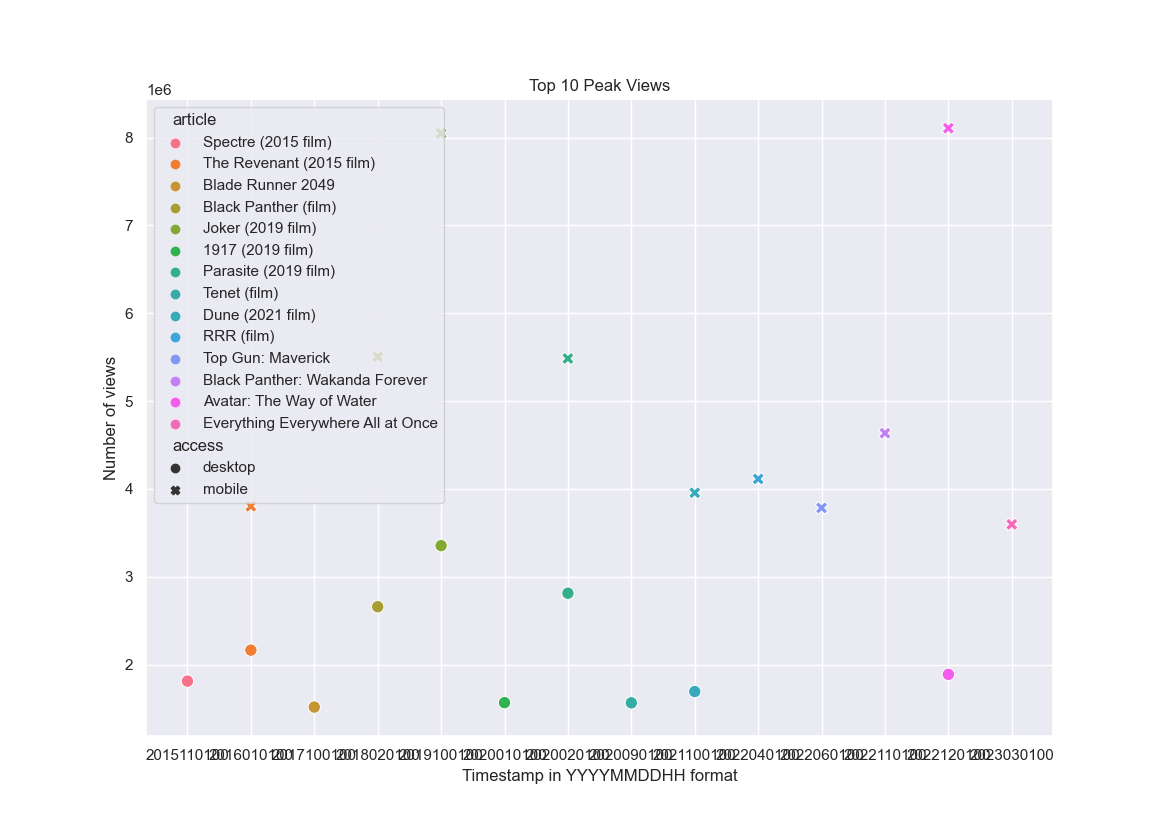
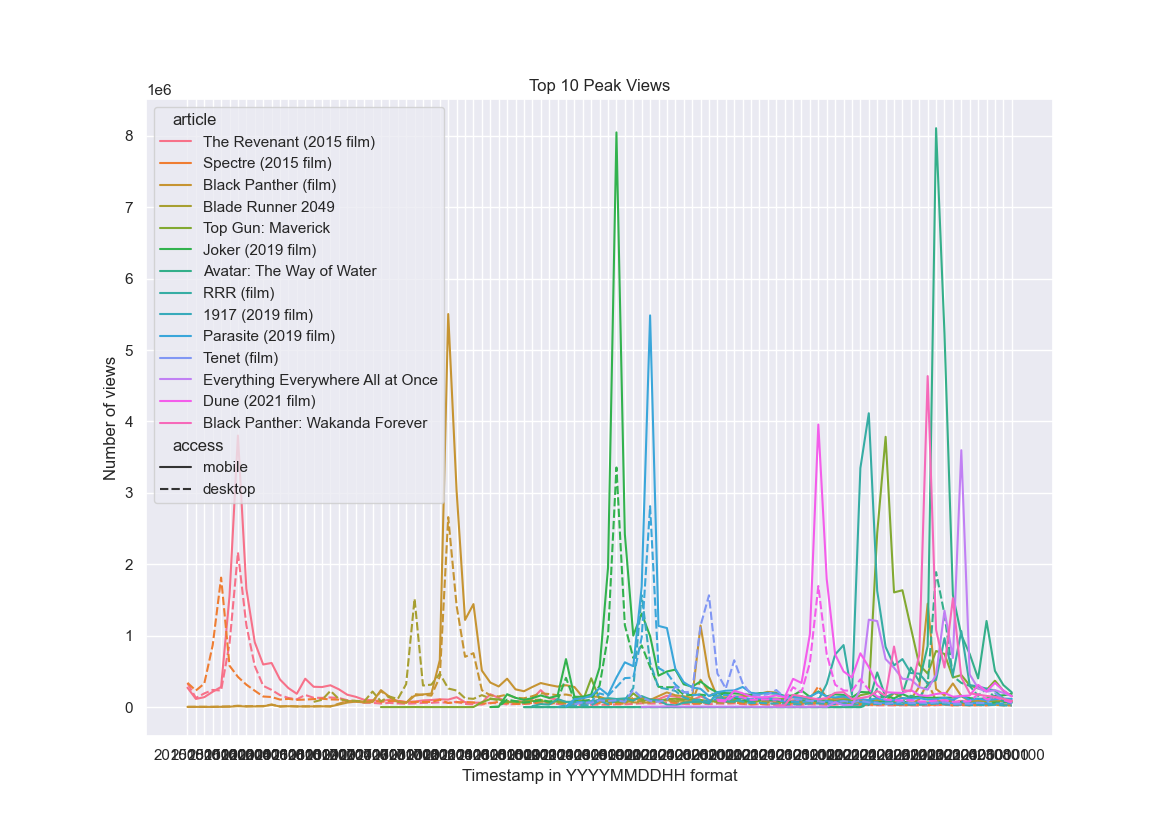
feat(): Changes

Changed region(s): [[0.1231, 0.1511, 0.8615, 0.8767], [0.1231, 0.9069, 0.8923, 0.9371], [0.8, 0.1511, 0.8308, 0.1814]]

diff --git a/README.md b/README.md
@@ -1,1 +1,24 @@
 # DATA512Assignment1
+
+Describe the goal of the project.
+List the license of the source data and a link to the Wikimedia Foundation REST API terms of use: https://www.mediawiki.org/wiki/REST_API#Terms_and_conditions
+Link to all relevant API documentation
+Clearly name any intermediary data files and any final output files that your code creates. And for any files that your code creates you should describe the values of all fields.
+List any known issues or special considerations with the data that would be useful for another researcher to know. 
+
+The aim of this project is to collect and analyze page view data of multiple academy award winning movies on English Wikipedia between the months of July 2015 and October 2023
+
+## Files:
+- Assignment 1.ipynb: Jupyter notebook with code pertaining to acquisition of the data, using the PageViews API to collect data for the movies of interest.
+- Assignment 1 Visualization.ipynb: Jupyter notebook with code pertaining to preprocessing, visualization and analysis of the data collected.
+- Fewest Months of Data.png: Graph visualizing the top 10 movies with fewest months of data.
+- Maximum Average and Minimum Average.png: Graph visualizing the top and bottom 10 movies with minimum and maximum average monthly views.
+- Top 10 Peak Views.png: Graph visualizing the time series data of the top 10 movies with highest page views.
+
+- academy_monthly_cumulative_201507-202310.json: Intermediate data with cumulative counts of desktop and mobile pageview data between July 2015 and October 2023.
+- academy_monthly_desktop_201507-202310.json: Intermediate data with counts of desktop pageview data between July 2015 and October 2023.
+- academy_monthly_mobile_201507-202310.json: Intermediate data with counts of mobile pageview data between July 2015 and October 2023.
+- thank_the_academy.AUG.2023.csv.xlsx: Initial dataset with names and URLs of academy award winning movies of interest
+
+## Data source:
+[PageViews API](https://wikimedia.org/api/rest_v1/#/Pageviews_data/get_metrics_pageviews_aggregate_project_access_agent_granularity_start_end)
